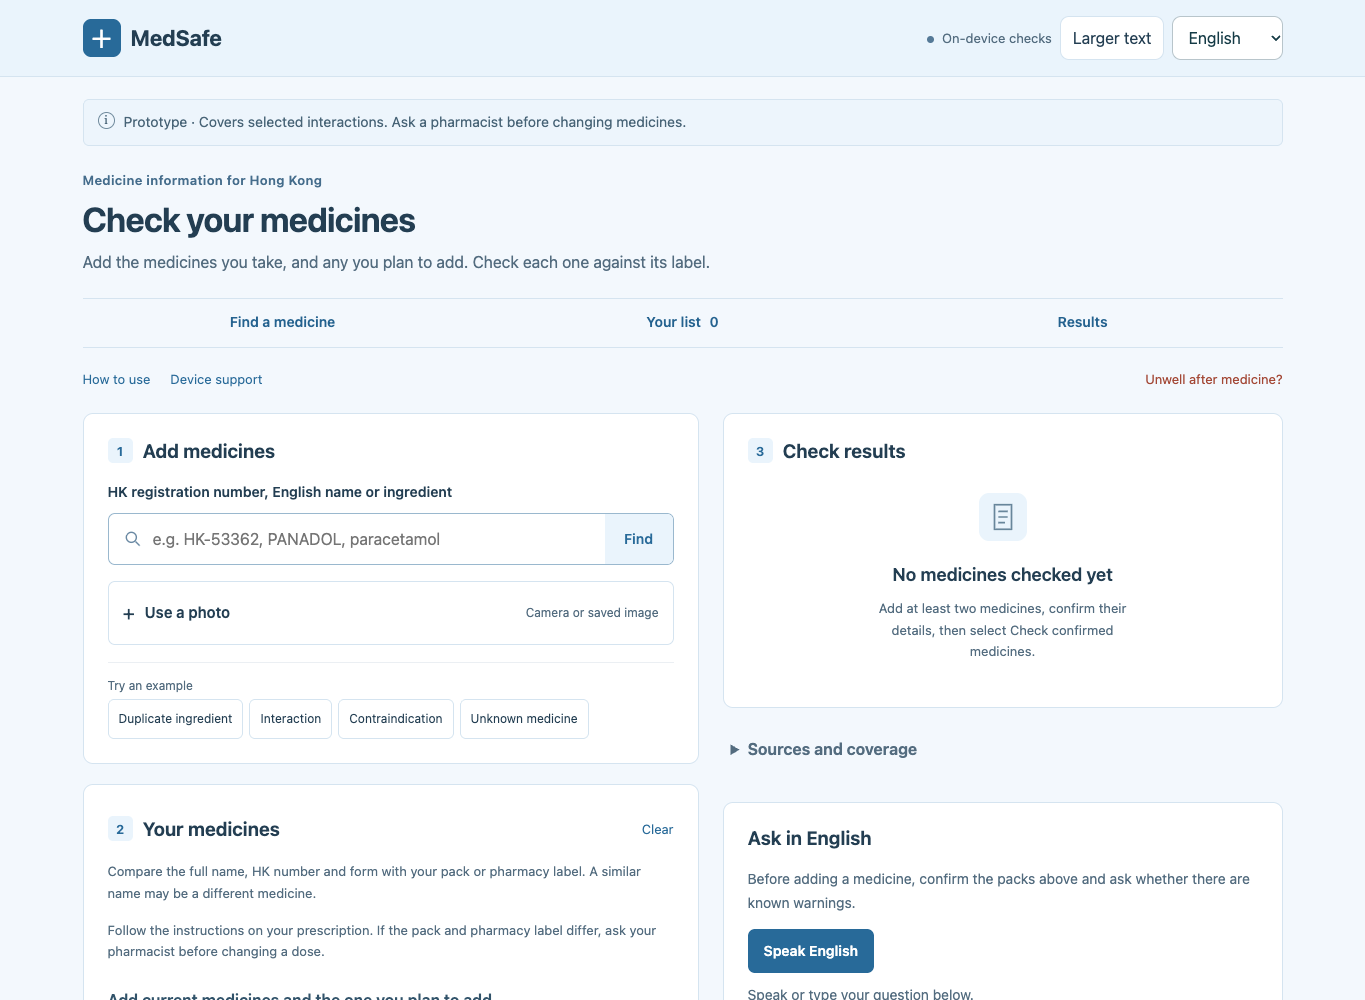
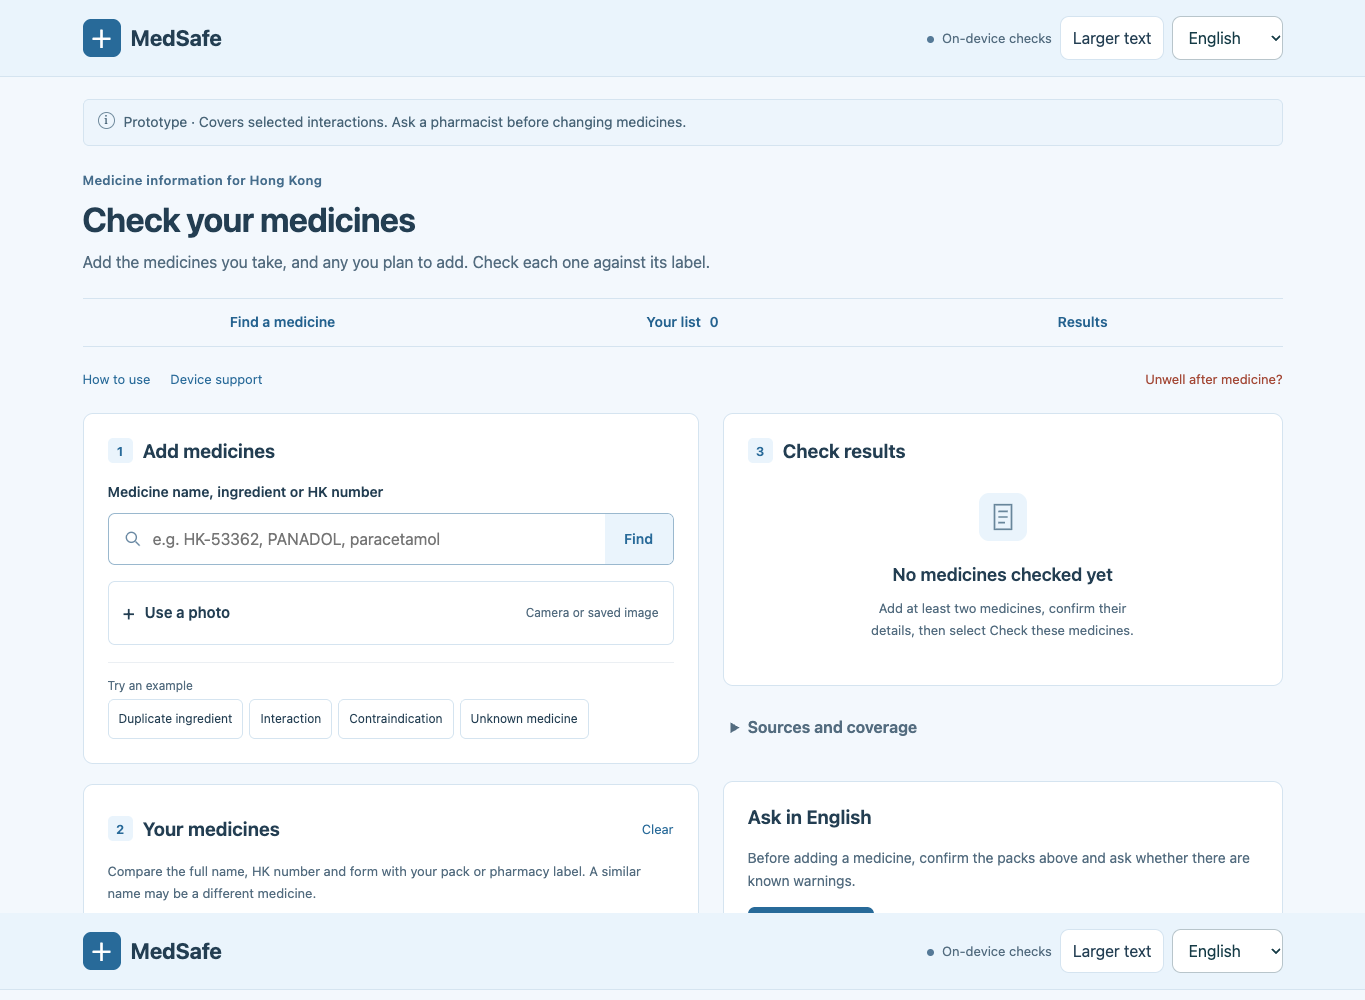
Record the published blue product and offline verification

diff --git a/docs/cloudflare-pages.md b/docs/cloudflare-pages.md
@@ -6,7 +6,7 @@ The team repository remains [yc-eagle/med-safe](https://github.com/yc-eagle/med-
 
 **Recorded examples:** https://med-care.pages.dev/showcase/
 
-Published on 4 October 2026 (Hong Kong time). Cloudflare confirmed the project name `med-care` and production deployment `da9f4d41-dcb8-4f5a-a51b-33bdad54c65b`, built from application revision `c732c82` with the gallery links and QR updated to the fixed address. See the [deployment receipt](../qa/cloudflare-package-status.json), [live asset comparison](../qa/cloudflare-live-assets.json), [browser checks](../qa/cloudflare-browser-verification.json) and [offline checks](../qa/cloudflare-offline-verification.json).
+Published on 4 October 2026 (Hong Kong time). Cloudflare confirmed the project name `med-care` and production deployment `44a57a70-4369-480c-95dd-7c59d5ad20f9`, built from application revision `84accc0` with the light-blue interface and updated product workflow. See the [deployment receipt](../qa/cloudflare-package-status.json), [live asset comparison](../qa/product-blue-published.json), [browser checks](../qa/product-blue-published.json) and [offline checks](../qa/product-blue-offline-results.json).
 
 This free Pages address does not require the development computer or a temporary tunnel to stay online. The Cloudflare project is hosted in the publishing account; source code and deliverables remain in the team repository.
 
@@ -28,6 +28,6 @@ Keep deployment changes on the team's review branch until the maintainer accepts
 
 ## Check after publishing
 
-Open the fixed HTTPS address on a phone. Check search, a confirmed example, photo input, all three interface languages and offline preparation. The published origin passed desktop Chrome checks at a 390px viewport and verified 53 offline assets (55,279,761 bytes), followed by disconnected reopening, medicine lookup, duplicate checking and synthetic-label OCR. These are engineering checks, not clinical or physical-phone validation. Browser speech still depends on the phone, permissions and network. An offline copy saved under the previous hostname does not transfer: prepare offline again at the new address.
+Open the fixed HTTPS address on a phone. Check search, a confirmed example, photo input, all three interface languages and offline preparation. The published origin passed desktop Chrome checks at a 390px viewport and verified 56 offline assets (55,300,370 bytes), followed by disconnected reopening, medicine lookup, duplicate checking and synthetic-label OCR. These are engineering checks, not clinical or physical-phone validation. Browser speech still depends on the phone, permissions and network. An offline copy saved under the previous hostname does not transfer: prepare offline again at the new address.
 
 Sources: [Cloudflare Direct Upload](https://developers.cloudflare.com/pages/get-started/direct-upload/), [Git integration](https://developers.cloudflare.com/pages/get-started/git-integration/).

diff --git a/docs/DELIVERY-INDEX.md b/docs/DELIVERY-INDEX.md
@@ -22,7 +22,7 @@ The first URL is the actual interactive medicine checker. The second is a record
 | Download the whole rehearsal package | [MedSafe-rehearsal-kit-20261003.zip](https://github.com/yc-eagle/med-safe/releases/download/rehearsal-20261003/MedSafe-rehearsal-kit-20261003.zip) |
 | All published rehearsal media and QR | [Rehearsal release](https://github.com/yc-eagle/med-safe/releases/tag/rehearsal-20261003) |
 | Complete deployable website | [MedSafe-Cloudflare-Pages.zip](https://github.com/yc-eagle/med-safe/releases/download/rehearsal-20261003/MedSafe-Cloudflare-Pages.zip) |
-| Fixed-host deployment and verification | [Deployment receipt](../qa/cloudflare-package-status.json) · [browser checks](../qa/cloudflare-browser-verification.json) · [offline checks](../qa/cloudflare-offline-verification.json) |
+| Fixed-host deployment and verification | [Deployment receipt](../qa/cloudflare-package-status.json) · [browser checks](../qa/product-blue-published.json) · [offline checks](../qa/product-blue-offline-results.json) |
 | English voice video | [MP4](https://github.com/yc-eagle/med-safe/releases/download/rehearsal-20261003/en-voice-demo.mp4) |
 | Cantonese voice video | [MP4](https://github.com/yc-eagle/med-safe/releases/download/rehearsal-20261003/yue-voice-demo.mp4) |
 | Three text scenarios | [MP4](https://github.com/yc-eagle/med-safe/releases/download/rehearsal-20261003/text-three-cases.mp4) |
